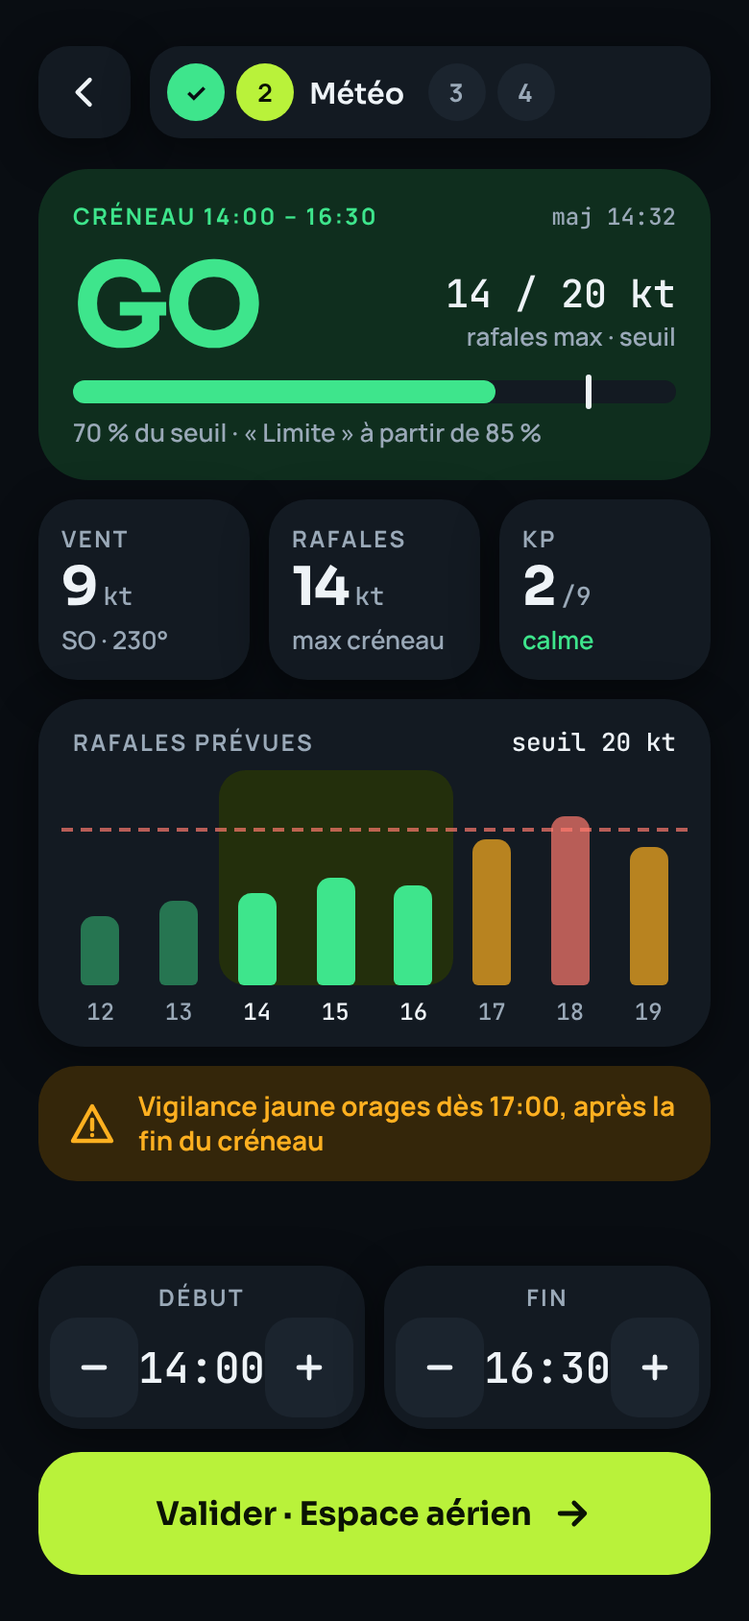
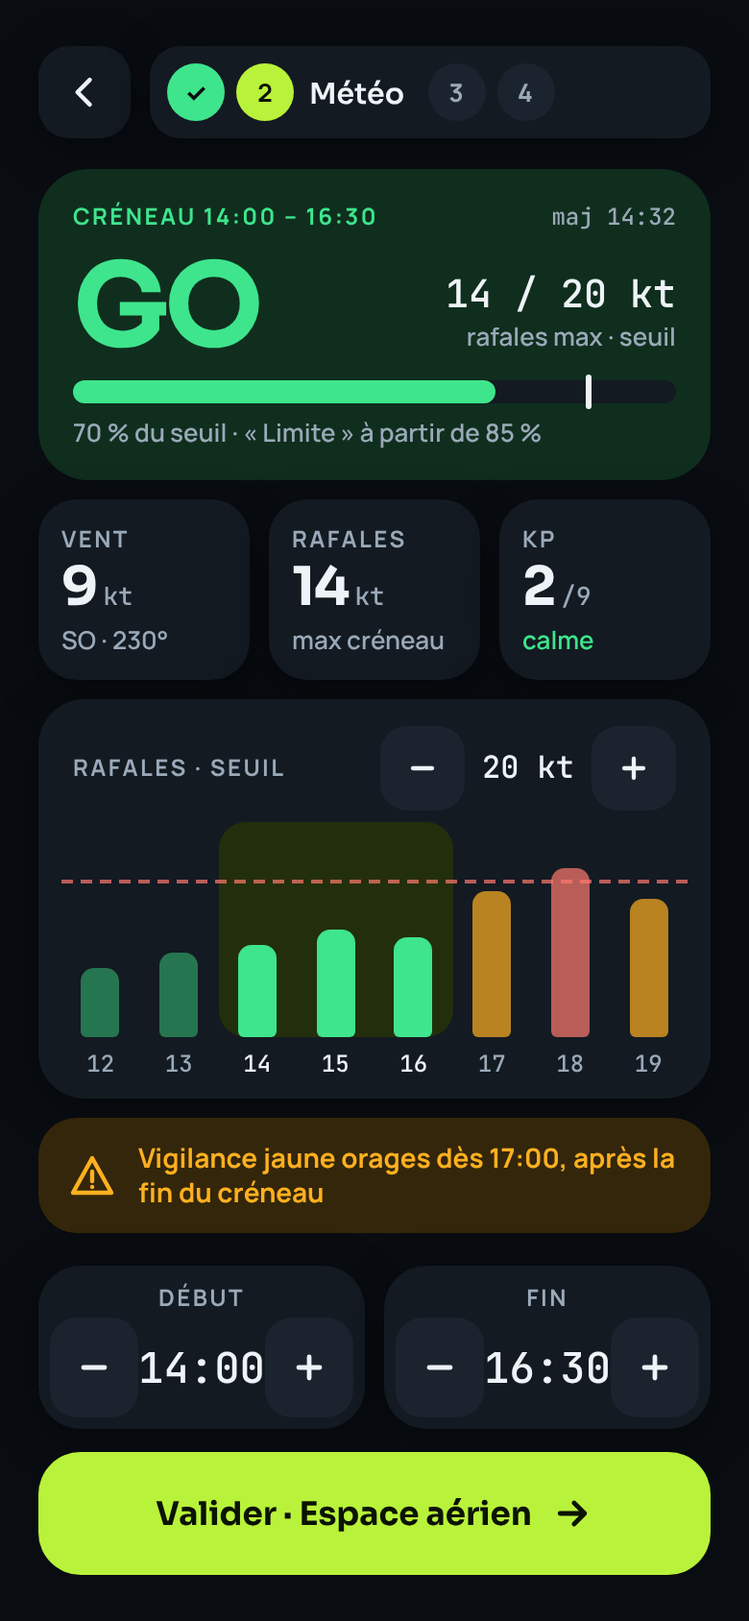
Direction B : seuil de rafales, NOTAM, SUP AIP, accueil vide
- Meteo : seuil de rafales réglable (− / +)
- Nouveaux écrans : Notam, SupAip (saisie manuelle avec source et heure), AccueilVide
- docs et captures mis à jour (12 écrans × clair/sombre)

Claude-Session: https://claude.ai/code/session_012whcUfQNcHfVK7pxXWHS1z

diff --git a/design/screens/SupAip.dc.html b/design/screens/SupAip.dc.html
@@ -1,0 +1,94 @@
+<!doctype html>
+<html lang="fr">
+<head>
+<meta charset="utf-8">
+<title>SUP AIP de la zone</title>
+<script src="./support.js"></script>
+</head>
+<body>
+<x-dc>
+<helmet>
+<link rel="stylesheet" href="https://fonts.googleapis.com/css2?family=Sora:wght@600;700&family=Manrope:wght@500;600;700&family=JetBrains+Mono:wght@500&display=swap">
+<style>
+body{margin:0}
+.pb *{box-sizing:border-box}
+.pb button{font-family:inherit;cursor:pointer}
+.pb .ibtn{width:48px;height:48px;border-radius:16px;border:0;background:var(--surf);color:var(--ink);display:flex;align-items:center;justify-content:center;box-shadow:var(--shadow)}
+.pb .step{width:30px;height:30px;border-radius:99px;display:flex;align-items:center;justify-content:center;font-size:13px;font-weight:700;background:var(--surf2);color:var(--mute)}
+.pb .lbl{font-size:12px;font-weight:700;letter-spacing:.1em;text-transform:uppercase;color:var(--mute)}
+.pb .card{background:var(--surf);border-radius:24px;box-shadow:var(--shadow);padding:14px 16px}
+.pb .fld{display:flex;flex-direction:column;gap:4px;flex:1;min-width:0}
+.pb .inp{height:52px;width:100%;border:2px solid var(--field-line);border-radius:16px;background:var(--surf2);color:var(--ink);font-family:inherit;font-size:15px;font-weight:600;padding:0 12px;outline:none}
+</style>
+</helmet>
+<div class="pb" style="position:relative;width:390px;height:844px;overflow:hidden;background:var(--bg);color:var(--ink);font-family:'Manrope',system-ui,sans-serif;font-size:15px;{{vars}}">
+
+<div style="position:absolute;left:20px;right:20px;top:24px;display:flex;gap:10px;align-items:center">
+<button class="ibtn" aria-label="Retour à la météo"><svg width="22" height="22" viewBox="0 0 24 24" fill="none" stroke="currentColor" stroke-width="2.4" stroke-linecap="round" stroke-linejoin="round"><path d="M15 5l-7 7 7 7"/></svg></button>
+<div style="flex:1;height:48px;border-radius:16px;background:var(--surf);box-shadow:var(--shadow);display:flex;align-items:center;gap:6px;padding:0 9px">
+<span class="step" style="background:var(--go);color:var(--bg)">✓</span>
+<span class="step" style="background:var(--go);color:var(--bg)">✓</span>
+<span class="step" style="background:var(--acc);color:var(--accInk)">3</span>
+<span style="font-family:'Sora',sans-serif;font-weight:600;font-size:15px;margin:0 6px 0 2px">SUP AIP</span>
+<span class="step">4</span>
+</div>
+</div>
+
+<div style="position:absolute;left:20px;right:20px;top:88px;display:flex;flex-direction:column;gap:10px">
+
+<div style="border:2px dashed var(--field-line);border-radius:24px;padding:14px 16px;display:flex;align-items:center;gap:12px">
+<svg width="26" height="26" viewBox="0 0 24 24" fill="none" stroke="var(--warn)" stroke-width="2.2" stroke-linecap="round" stroke-linejoin="round" style="flex:none"><path d="M12 3l10 18H2z"/><path d="M12 10v5M12 18h.01"/></svg>
+<div style="flex:1"><div style="font-family:'Sora',sans-serif;font-weight:700;font-size:18px;letter-spacing:-.01em">SUP AIP à saisir</div>
+<div style="font-size:13px;font-weight:600;color:var(--mute);margin-top:2px">Pas de source automatique. Consultez le site du SIA, puis reportez ceux qui touchent la zone.</div></div>
+<button aria-label="Ouvrir le site du SIA" style="width:48px;height:48px;flex:none;border-radius:14px;border:2px solid var(--acc);background:transparent;color:var(--acc);display:flex;align-items:center;justify-content:center"><svg width="20" height="20" viewBox="0 0 24 24" fill="none" stroke="currentColor" stroke-width="2.6" stroke-linecap="round" stroke-linejoin="round"><path d="M7 17L17 7M9 7h8v8"/></svg></button>
+</div>
+
+<div class="card" style="display:flex;flex-direction:column;gap:10px">
+<div class="lbl">Ajouter un SUP AIP</div>
+<div style="display:flex;gap:10px">
+<div class="fld"><label for="sid" style="font-size:13px;font-weight:700;color:var(--mute)">Identifiant</label><input id="sid" class="inp" placeholder="000/26" style="font-family:'JetBrains Mono',monospace"></div>
+<div class="fld"><label for="sval" style="font-size:13px;font-weight:700;color:var(--mute)">Validité</label><input id="sval" class="inp" placeholder="12/10 → 30/10" style="font-family:'JetBrains Mono',monospace"></div>
+</div>
+<div class="fld"><label for="stit" style="font-size:13px;font-weight:700;color:var(--mute)">Titre</label><input id="stit" class="inp" placeholder="Intitulé du SUP AIP"></div>
+<button style="height:52px;border-radius:16px;border:0;background:var(--ink);color:var(--surf);font-weight:700;font-size:15px">Ajouter</button>
+</div>
+
+<div class="card" style="display:flex;flex-direction:column;gap:8px">
+<div style="display:flex;justify-content:space-between;align-items:center;gap:8px">
+<span style="font-family:'JetBrains Mono',monospace;font-weight:500;font-size:16px">SUP AIP 000/26</span>
+<span style="display:inline-flex;align-items:center;height:28px;padding:0 12px;border-radius:99px;background:var(--warnSoft);color:var(--warn);font-size:12px;font-weight:700">Saisi à la main · 14:42</span>
+</div>
+<div style="font-weight:700">Titre saisi (exemple)</div>
+<div style="display:flex;justify-content:space-between;align-items:center">
+<span style="font-family:'JetBrains Mono',monospace;font-size:13px;color:var(--mute)">12/10 → 30/10</span>
+<button style="height:44px;padding:0 14px;border-radius:14px;border:0;background:var(--accSoft);color:var(--acc);font-weight:700;font-size:14px">Ouvrir le document</button>
+</div>
+</div>
+
+</div>
+
+<div style="position:absolute;left:0;right:0;bottom:0;height:150px;background:var(--bg)"></div>
+<div style="position:absolute;left:20px;right:20px;bottom:24px;display:flex;flex-direction:column;gap:12px">
+<div style="display:flex;background:var(--surf);border-radius:20px;padding:4px;gap:4px;box-shadow:var(--shadow)">
+<button style="flex:1;height:48px;border:0;border-radius:16px;background:transparent;color:var(--mute);font-weight:700;font-size:14px">Zones</button>
+<button style="flex:1;height:48px;border:0;border-radius:16px;background:transparent;color:var(--mute);font-weight:700;font-size:14px">NOTAM</button>
+<button style="flex:1;height:48px;border:0;border-radius:16px;background:var(--ink);color:var(--surf);font-weight:700;font-size:14px">SUP AIP</button>
+</div>
+<button style="height:64px;border-radius:22px;border:0;background:var(--acc);color:var(--accInk);font-family:'Sora',sans-serif;font-weight:700;font-size:17px;display:flex;align-items:center;justify-content:center;gap:10px">Valider · Fiche mission<svg width="22" height="22" viewBox="0 0 24 24" fill="none" stroke="currentColor" stroke-width="2.6" stroke-linecap="round" stroke-linejoin="round"><path d="M5 12h14M13 6l6 6-6 6"/></svg></button>
+</div>
+
+</div>
+</x-dc>
+<script type="text/x-dc" data-dc-script data-props='{"theme":{"editor":"enum","options":["light","dark"],"default":"light"},"$preview":{"width":390,"height":844}}'>
+class Component extends DCLogic {
+  renderVals() {
+    const dark = this.props.theme === 'dark';
+    const base = dark
+      ? '--bg:#090D12;--surf:#131A22;--surf2:#1B242E;--line:#2A3541;--field-line:#6B7C8E;--ink:#EEF3F7;--mute:#9AA9B8;--acc:#B9F23A;--accInk:#0B1304;--accSoft:#232F0C;--go:#3EE58C;--goSoft:#0F2E1E;--warn:#FFB020;--warnSoft:#34260A;--bad:#FF7A6E;--badSoft:#3A1814;--shadow:0 6px 24px rgba(0,0,0,.45);'
+      : '--bg:#EEF0EA;--surf:#FFFFFF;--surf2:#F2F4EE;--line:#DDE1D6;--field-line:#7B8576;--ink:#0D1218;--mute:#566170;--acc:#2340E8;--accInk:#FFFFFF;--accSoft:#E3E8FF;--go:#0D7A40;--goSoft:#D8F1E1;--warn:#8A5200;--warnSoft:#FBE9C6;--bad:#B3261E;--badSoft:#F9DAD6;--shadow:0 6px 24px rgba(13,18,24,.10);';
+    return { vars: base };
+  }
+}
+</script>
+</body>
+</html>

diff --git a/design/screens/Notam.dc.html b/design/screens/Notam.dc.html
@@ -1,0 +1,89 @@
+<!doctype html>
+<html lang="fr">
+<head>
+<meta charset="utf-8">
+<title>NOTAM de la zone</title>
+<script src="./support.js"></script>
+</head>
+<body>
+<x-dc>
+<helmet>
+<link rel="stylesheet" href="https://fonts.googleapis.com/css2?family=Sora:wght@600;700&family=Manrope:wght@500;600;700&family=JetBrains+Mono:wght@500&display=swap">
+<style>
+body{margin:0}
+.pb *{box-sizing:border-box}
+.pb button{font-family:inherit;cursor:pointer}
+.pb .ibtn{width:48px;height:48px;border-radius:16px;border:0;background:var(--surf);color:var(--ink);display:flex;align-items:center;justify-content:center;box-shadow:var(--shadow)}
+.pb .step{width:30px;height:30px;border-radius:99px;display:flex;align-items:center;justify-content:center;font-size:13px;font-weight:700;background:var(--surf2);color:var(--mute)}
+.pb .lbl{font-size:12px;font-weight:700;letter-spacing:.1em;text-transform:uppercase;color:var(--mute)}
+.pb .card{background:var(--surf);border-radius:24px;box-shadow:var(--shadow);padding:14px 16px}
+.pb .num{width:28px;height:28px;border-radius:99px;background:var(--accSoft);color:var(--acc);font-weight:700;font-size:13px;display:flex;align-items:center;justify-content:center;flex:none}
+</style>
+</helmet>
+<div class="pb" style="position:relative;width:390px;height:844px;overflow:hidden;background:var(--bg);color:var(--ink);font-family:'Manrope',system-ui,sans-serif;font-size:15px;{{vars}}">
+
+<div style="position:absolute;left:20px;right:20px;top:24px;display:flex;gap:10px;align-items:center">
+<button class="ibtn" aria-label="Retour à la météo"><svg width="22" height="22" viewBox="0 0 24 24" fill="none" stroke="currentColor" stroke-width="2.4" stroke-linecap="round" stroke-linejoin="round"><path d="M15 5l-7 7 7 7"/></svg></button>
+<div style="flex:1;height:48px;border-radius:16px;background:var(--surf);box-shadow:var(--shadow);display:flex;align-items:center;gap:6px;padding:0 9px">
+<span class="step" style="background:var(--go);color:var(--bg)">✓</span>
+<span class="step" style="background:var(--go);color:var(--bg)">✓</span>
+<span class="step" style="background:var(--acc);color:var(--accInk)">3</span>
+<span style="font-family:'Sora',sans-serif;font-weight:600;font-size:15px;margin:0 6px 0 2px">NOTAM</span>
+<span class="step">4</span>
+</div>
+</div>
+
+<div style="position:absolute;left:20px;right:20px;top:88px;display:flex;flex-direction:column;gap:10px">
+
+<div style="border:2px dashed var(--field-line);border-radius:24px;padding:14px 16px;display:flex;flex-direction:column;gap:12px">
+<div style="display:flex;align-items:center;gap:12px">
+<svg width="26" height="26" viewBox="0 0 24 24" fill="none" stroke="var(--warn)" stroke-width="2.2" stroke-linecap="round" stroke-linejoin="round" style="flex:none"><path d="M12 3l10 18H2z"/><path d="M12 10v5M12 18h.01"/></svg>
+<div><div style="font-family:'Sora',sans-serif;font-weight:700;font-size:18px;letter-spacing:-.01em">NOTAM non vérifiés</div>
+<div style="font-size:13px;font-weight:600;color:var(--mute);margin-top:2px">Aucune source automatique : l'absence de texte ne veut pas dire « rien à signaler ».</div></div>
+</div>
+<div style="display:flex;align-items:center;gap:12px"><span class="num">1</span><span style="flex:1;font-weight:700;font-size:14px">Ouvrir le service NOTAM du SIA</span>
+<button style="height:48px;padding:0 16px;border-radius:14px;border:2px solid var(--acc);background:transparent;color:var(--acc);font-weight:700;font-size:14px;display:flex;align-items:center;gap:6px">Ouvrir<svg width="16" height="16" viewBox="0 0 24 24" fill="none" stroke="currentColor" stroke-width="2.6" stroke-linecap="round" stroke-linejoin="round"><path d="M7 17L17 7M9 7h8v8"/></svg></button></div>
+<div style="display:flex;align-items:center;gap:12px"><span class="num">2</span><span style="flex:1;font-weight:700;font-size:14px">Copier le texte de la zone, puis le coller ci-dessous</span></div>
+</div>
+
+<div class="card" style="display:flex;flex-direction:column;gap:10px">
+<label for="coll" class="lbl">Texte collé</label>
+<textarea id="coll" placeholder="Coller le texte des NOTAM…" style="width:100%;height:96px;resize:none;border:2px solid var(--field-line);border-radius:16px;background:var(--surf2);color:var(--ink);font-family:'JetBrains Mono',monospace;font-size:14px;padding:12px;outline:none"></textarea>
+<button style="height:52px;border-radius:16px;border:0;background:var(--ink);color:var(--surf);font-weight:700;font-size:15px">Enregistrer le texte</button>
+</div>
+
+<div class="card" style="display:flex;flex-direction:column;gap:8px">
+<div style="display:flex;justify-content:space-between;align-items:center;gap:8px">
+<span style="font-family:'JetBrains Mono',monospace;font-weight:500;font-size:16px">A0000/26</span>
+<span style="display:inline-flex;align-items:center;height:28px;padding:0 12px;border-radius:99px;background:var(--warnSoft);color:var(--warn);font-size:12px;font-weight:700">Saisi à la main · 14:40</span>
+</div>
+<div style="font-family:'JetBrains Mono',monospace;font-size:13px;line-height:1.5;color:var(--ink)">Texte d'exemple collé par l'utilisateur. Validité 06/10 08:00 → 06/10 18:00.</div>
+</div>
+
+</div>
+
+<div style="position:absolute;left:0;right:0;bottom:0;height:150px;background:var(--bg)"></div>
+<div style="position:absolute;left:20px;right:20px;bottom:24px;display:flex;flex-direction:column;gap:12px">
+<div style="display:flex;background:var(--surf);border-radius:20px;padding:4px;gap:4px;box-shadow:var(--shadow)">
+<button style="flex:1;height:48px;border:0;border-radius:16px;background:transparent;color:var(--mute);font-weight:700;font-size:14px">Zones</button>
+<button style="flex:1;height:48px;border:0;border-radius:16px;background:var(--ink);color:var(--surf);font-weight:700;font-size:14px">NOTAM</button>
+<button style="flex:1;height:48px;border:0;border-radius:16px;background:transparent;color:var(--mute);font-weight:700;font-size:14px">SUP AIP</button>
+</div>
+<button style="height:64px;border-radius:22px;border:0;background:var(--acc);color:var(--accInk);font-family:'Sora',sans-serif;font-weight:700;font-size:17px;display:flex;align-items:center;justify-content:center;gap:10px">Valider · Fiche mission<svg width="22" height="22" viewBox="0 0 24 24" fill="none" stroke="currentColor" stroke-width="2.6" stroke-linecap="round" stroke-linejoin="round"><path d="M5 12h14M13 6l6 6-6 6"/></svg></button>
+</div>
+
+</div>
+</x-dc>
+<script type="text/x-dc" data-dc-script data-props='{"theme":{"editor":"enum","options":["light","dark"],"default":"light"},"$preview":{"width":390,"height":844}}'>
+class Component extends DCLogic {
+  renderVals() {
+    const dark = this.props.theme === 'dark';
+    const base = dark
+      ? '--bg:#090D12;--surf:#131A22;--surf2:#1B242E;--line:#2A3541;--field-line:#6B7C8E;--ink:#EEF3F7;--mute:#9AA9B8;--acc:#B9F23A;--accInk:#0B1304;--accSoft:#232F0C;--go:#3EE58C;--goSoft:#0F2E1E;--warn:#FFB020;--warnSoft:#34260A;--bad:#FF7A6E;--badSoft:#3A1814;--shadow:0 6px 24px rgba(0,0,0,.45);'
+      : '--bg:#EEF0EA;--surf:#FFFFFF;--surf2:#F2F4EE;--line:#DDE1D6;--field-line:#7B8576;--ink:#0D1218;--mute:#566170;--acc:#2340E8;--accInk:#FFFFFF;--accSoft:#E3E8FF;--go:#0D7A40;--goSoft:#D8F1E1;--warn:#8A5200;--warnSoft:#FBE9C6;--bad:#B3261E;--badSoft:#F9DAD6;--shadow:0 6px 24px rgba(13,18,24,.10);';
+    return { vars: base };
+  }
+}
+</script>
+</body>
+</html>

diff --git a/design/screens/AccueilVide.dc.html b/design/screens/AccueilVide.dc.html
@@ -1,0 +1,72 @@
+<!doctype html>
+<html lang="fr">
+<head>
+<meta charset="utf-8">
+<title>Accueil sans mission</title>
+<script src="./support.js"></script>
+</head>
+<body>
+<x-dc>
+<helmet>
+<link rel="stylesheet" href="https://fonts.googleapis.com/css2?family=Sora:wght@600;700&family=Manrope:wght@500;600;700&family=JetBrains+Mono:wght@500&display=swap">
+<style>
+body{margin:0}
+.pb *{box-sizing:border-box}
+.pb button{font-family:inherit;cursor:pointer}
+.pb .ibtn{width:48px;height:48px;border-radius:16px;border:0;background:var(--surf);color:var(--ink);display:flex;align-items:center;justify-content:center;box-shadow:var(--shadow)}
+</style>
+</helmet>
+<div class="pb" style="position:relative;width:390px;height:844px;overflow:hidden;background:var(--bg);color:var(--ink);font-family:'Manrope',system-ui,sans-serif;font-size:15px;{{vars}}">
+
+<div style="position:absolute;left:20px;right:20px;top:24px;display:flex;align-items:center;justify-content:space-between">
+<div style="display:flex;align-items:center;gap:10px">
+<div style="width:40px;height:40px;border-radius:14px;background:var(--acc);color:var(--accInk);display:flex;align-items:center;justify-content:center">
+<svg width="22" height="22" viewBox="0 0 24 24" fill="none" stroke="currentColor" stroke-width="2.2" stroke-linecap="round" stroke-linejoin="round"><path d="M12 3v4M12 17v4M3 12h4M17 12h4"/><circle cx="12" cy="12" r="3"/></svg>
+</div>
+<span style="font-family:'Sora',sans-serif;font-weight:700;font-size:17px;letter-spacing:-.01em">Prépa Mission</span>
+</div>
+<div style="display:flex;gap:10px">
+<button class="ibtn" aria-label="Changer de thème"><svg width="22" height="22" viewBox="0 0 24 24" fill="none" stroke="currentColor" stroke-width="2" stroke-linecap="round" stroke-linejoin="round"><path d="M21 12.8A9 9 0 1 1 11.2 3a7 7 0 0 0 9.8 9.8z"/></svg></button>
+<button class="ibtn" aria-label="Plus d'options"><svg width="22" height="22" viewBox="0 0 24 24" fill="currentColor"><circle cx="5" cy="12" r="1.8"/><circle cx="12" cy="12" r="1.8"/><circle cx="19" cy="12" r="1.8"/></svg></button>
+</div>
+</div>
+
+<div style="position:absolute;left:20px;right:20px;top:92px">
+<h1 style="margin:0;font-family:'Sora',sans-serif;font-weight:700;font-size:38px;letter-spacing:-.03em;line-height:1.05">Missions</h1>
+<div style="margin-top:6px;color:var(--mute);font-weight:600">Aucune mission sur cet appareil</div>
+</div>
+
+<div style="position:absolute;left:20px;right:20px;top:230px;display:flex;flex-direction:column;align-items:center;text-align:center;gap:14px">
+<svg width="200" height="150" viewBox="0 0 200 150" aria-hidden="true">
+<g fill="none" stroke="var(--field-line)" stroke-width="2" stroke-linecap="round" stroke-linejoin="round">
+<circle cx="100" cy="75" r="26" stroke-dasharray="5 6"/>
+<circle cx="100" cy="75" r="52" stroke-dasharray="5 8" opacity=".6"/>
+<circle cx="100" cy="75" r="72" opacity=".3"/>
+</g>
+<circle cx="100" cy="75" r="9" fill="var(--acc)"/>
+<circle cx="100" cy="75" r="16" fill="none" stroke="var(--acc)" stroke-width="2" opacity=".5"/>
+</svg>
+<div style="font-family:'Sora',sans-serif;font-weight:700;font-size:22px;letter-spacing:-.02em">Prêt pour une première mission</div>
+<div style="color:var(--mute);font-weight:600;line-height:1.5;max-width:300px">Les missions restent dans ce navigateur. Le cache peut être vidé : pensez à les exporter pour les sauvegarder.</div>
+</div>
+
+<div style="position:absolute;left:20px;right:20px;bottom:24px;display:flex;flex-direction:column;gap:12px">
+<button style="height:56px;border-radius:20px;border:2px solid var(--field-line);background:transparent;color:var(--ink);font-weight:700;font-size:15px;display:flex;align-items:center;justify-content:center;gap:10px"><svg width="22" height="22" viewBox="0 0 24 24" fill="none" stroke="currentColor" stroke-width="2.2" stroke-linecap="round" stroke-linejoin="round"><path d="M12 15V3M7 8l5-5 5 5M4 20h16"/></svg>Importer une sauvegarde</button>
+<button style="height:64px;border-radius:22px;border:0;background:var(--acc);color:var(--accInk);font-family:'Sora',sans-serif;font-weight:700;font-size:18px;display:flex;align-items:center;justify-content:center;gap:10px;box-shadow:var(--shadow)"><svg width="24" height="24" viewBox="0 0 24 24" fill="none" stroke="currentColor" stroke-width="2.6" stroke-linecap="round"><path d="M12 5v14M5 12h14"/></svg>Nouvelle mission</button>
+</div>
+
+</div>
+</x-dc>
+<script type="text/x-dc" data-dc-script data-props='{"theme":{"editor":"enum","options":["light","dark"],"default":"light"},"$preview":{"width":390,"height":844}}'>
+class Component extends DCLogic {
+  renderVals() {
+    const dark = this.props.theme === 'dark';
+    const base = dark
+      ? '--bg:#090D12;--surf:#131A22;--surf2:#1B242E;--line:#2A3541;--field-line:#6B7C8E;--ink:#EEF3F7;--mute:#9AA9B8;--acc:#B9F23A;--accInk:#0B1304;--shadow:0 6px 24px rgba(0,0,0,.45);'
+      : '--bg:#EEF0EA;--surf:#FFFFFF;--surf2:#F2F4EE;--line:#DDE1D6;--field-line:#7B8576;--ink:#0D1218;--mute:#566170;--acc:#2340E8;--accInk:#FFFFFF;--shadow:0 6px 24px rgba(13,18,24,.10);';
+    return { vars: base };
+  }
+}
+</script>
+</body>
+</html>

diff --git a/design/screens/Meteo.dc.html b/design/screens/Meteo.dc.html
@@ -68,8 +68,12 @@ body{margin:0}
 
 <div style="background:var(--surf);border-radius:24px;box-shadow:var(--shadow);padding:14px 12px 10px;display:flex;flex-direction:column;gap:6px">
 <div style="display:flex;justify-content:space-between;align-items:center;padding:0 6px">
-<span class="lbl">Rafales prévues</span>
-<span style="font-family:'JetBrains Mono',monospace;font-size:13px;font-weight:500">seuil 20 kt</span>
+<span class="lbl">Rafales · seuil</span>
+<div style="display:flex;align-items:center;gap:4px">
+<button class="stp" aria-label="Seuil de rafales moins 1 nœud" style="width:44px;height:44px"><svg width="20" height="20" viewBox="0 0 24 24" fill="none" stroke="currentColor" stroke-width="2.6" stroke-linecap="round"><path d="M6 12h12"/></svg></button>
+<span style="font-family:'JetBrains Mono',monospace;font-size:16px;font-weight:500;min-width:58px;text-align:center">20 kt</span>
+<button class="stp" aria-label="Seuil de rafales plus 1 nœud" style="width:44px;height:44px"><svg width="20" height="20" viewBox="0 0 24 24" fill="none" stroke="currentColor" stroke-width="2.6" stroke-linecap="round"><path d="M12 6v12M6 12h12"/></svg></button>
+</div>
 </div>
 <div style="position:relative;display:flex">
 <div style="position:absolute;left:0;right:0;bottom:{{thrBottom}}px;border-top:2px dashed var(--bad);opacity:.7;z-index:2"></div>

diff --git a/docs/03-ecrans-et-parcours.md b/docs/03-ecrans-et-parcours.md
@@ -1,6 +1,6 @@
 # Écrans et parcours — direction B « une main »
 
-Références visuelles : `design/previews/` (9 écrans × clair/sombre) et `design/screens/` (sources). Les maquettes utilisent des **données d'exemple** : ne pas les recopier comme vraies données.
+Références visuelles : `design/previews/` (12 écrans × clair/sombre) et `design/screens/` (sources). Les maquettes utilisent des **données d'exemple** : ne pas les recopier comme vraies données.
 
 ## Parcours principal
 
@@ -27,7 +27,7 @@ Moitié haute : identité (radar décoratif, logo, nom). Moitié basse : champ m
 
 ## 02 Accueil (`Accueil`)
 
-Titre « Missions », compteur, filtres (Toutes · À préparer · Prêtes). Cartes de mission : nom, date · créneau · lieu, pastille de verdict (GO / LIMITE / À PRÉPARER), 4 segments de progression (Lieu, Météo, Espace, Fiche), pastilles GENDRONE et Visu@ldrone. En bas : « Nouvelle mission » (principal) et import/export. Actions de carte à prévoir : renommer, dupliquer, supprimer (appui long ou menu). État vide à dessiner.
+Titre « Missions », compteur, filtres (Toutes · À préparer · Prêtes). Cartes de mission : nom, date · créneau · lieu, pastille de verdict (GO / LIMITE / À PRÉPARER), 4 segments de progression (Lieu, Météo, Espace, Fiche), pastilles GENDRONE et Visu@ldrone. En bas : « Nouvelle mission » (principal) et import/export. Actions de carte à prévoir : renommer, dupliquer, supprimer (appui long ou menu). État vide : écran `AccueilVide` (invitation « Prêt pour une première mission », rappel que le cache peut être vidé, « Importer une sauvegarde » et « Nouvelle mission »).
 
 ## 03 Lieu (`Lieu`)
 
@@ -42,7 +42,7 @@ Titre « Missions », compteur, filtres (Toutes · À préparer · Prêtes). Car
 - Graphique des rafales heure par heure : créneau surligné, seuil en tirets, barres colorées par statut.
 - Alerte (vigilance) : fond d'avertissement, avec précision « dans / hors créneau ».
 - Bas : réglage Début et Fin par pas de 30 minutes, puis « Valider · Espace aérien ».
-- Seuil de rafales réglable (non dessiné : à placer dans la carte du graphique).
+- **Seuil de rafales réglable** dans l'en-tête du graphique (− / + par pas de 1 nœud) ; le verdict et les couleurs des barres se recalculent.
 
 ## 05 Météo indisponible (`MeteoHS`)
 
@@ -54,7 +54,14 @@ Carte rouge « Météo indisponible, aucune valeur n'est inventée » + « Rées
 - Mini-carte des zones (CTR en ambre pointillé, zone restreinte en rouge).
 - Carte de lignes : CTR (oui/non), hauteur maximale, aérodrome le plus proche (distance) ; pied « Source … données récupérées à hh:mm ».
 - Carte à bord pointillé « NOTAM · SUP AIP : non vérifiés » tant qu'aucune source n'est branchée : **jamais « rien à signaler » sans source**.
-- Segments Zones · NOTAM · SUP AIP au-dessus du bouton principal. Écrans NOTAM et SUP AIP à dessiner (liste, collage du texte, lien vers le SIA).
+- Segments Zones · NOTAM · SUP AIP au-dessus du bouton principal. Les onglets NOTAM et SUP AIP ouvrent les écrans `Notam` et `SupAip`, ci-dessous.
+
+### 06 bis NOTAM (`Notam`) et SUP AIP (`SupAip`)
+
+- Carte à bord pointillé « non vérifiés » tant qu'aucune source n'est branchée ; rappel que l'absence de texte ne signifie pas « rien à signaler ».
+- **NOTAM** : étape 1 « Ouvrir le service NOTAM du SIA » (lien externe), étape 2 « copier le texte de la zone et le coller » ; zone de texte monospace, bouton « Enregistrer le texte » ; chaque texte enregistré affiche son identifiant, la pastille « Saisi à la main · hh:mm » et la validité.
+- **SUP AIP** : lien vers le site du SIA ; formulaire Identifiant · Validité · Titre, bouton « Ajouter » ; chaque entrée affiche identifiant, titre, validité, pastille « Saisi à la main · hh:mm » et « Ouvrir le document ».
+- Toujours indiquer la source (ici « saisie manuelle ») et l'heure d'enregistrement.
 
 ## 07 Fiche mission (`Fiche`)
 

diff --git a/design/README.md b/design/README.md
@@ -5,12 +5,12 @@ Conception mobile d'abord : navigation et actions dans la zone du pouce (bas de 
 | Dossier | Contenu |
 |---|---|
 | `tokens.css` | Variables CSS clair/sombre. **À utiliser directement.** |
-| `previews/` | 18 captures PNG (9 écrans × clair/sombre, 390 × 844, ×2). **Référence visuelle rapide.** |
-| `screens/` | Sources des 9 écrans (`.dc.html`), chacun avec une propriété `theme` (`light` ou `dark`). |
+| `previews/` | 24 captures PNG (12 écrans × clair/sombre, 390 × 844, ×2). **Référence visuelle rapide.** |
+| `screens/` | Sources des 12 écrans (`.dc.html`), chacun avec une propriété `theme` (`light` ou `dark`). |
 
-## Les 9 écrans
+## Les 12 écrans
 
-`Connexion` · `Accueil` · `Lieu` · `Meteo` · `MeteoHS` (météo indisponible, saisie manuelle) · `Espace` (espace aérien, NOTAM, SUP AIP) · `Fiche` · `Smepp` (dictée) · `Outils` (tiroir de conversion).
+`Connexion` · `Accueil` · `AccueilVide` · `Lieu` · `Meteo` (avec seuil de rafales réglable) · `MeteoHS` (météo indisponible, saisie manuelle) · `Espace` (zones) · `Notam` (collage manuel) · `SupAip` (saisie manuelle) · `Fiche` · `Smepp` (dictée) · `Outils` (tiroir de conversion).
 
 ## Format `.dc.html`
 
@@ -26,4 +26,4 @@ Les captures et sources font foi pour l'apparence ; `docs/03-ecrans-et-parcours.
 
 ## Ce qui n'est pas encore dessiné
 
-NOTAM et SUP AIP en détail (liste, collage du texte), accueil vide, import/export, état hors ligne, tablette et poste de travail (la mise en page B est pensée pour téléphone ; sur grand écran, centrer la colonne mobile ou prévoir une version à deux colonnes).
+Onglet Coordonnées des Outils, menu d'actions d'une mission (renommer, dupliquer, supprimer), import/export en détail, état hors ligne, tablette et poste de travail (la mise en page B est pensée pour téléphone ; sur grand écran, centrer la colonne mobile ou prévoir une version à deux colonnes).

diff --git a/README.md b/README.md
@@ -2,7 +2,7 @@
 
 Application web **mobile d'abord, utilisable d'une main**, d'aide à la préparation d'une mission drone, pour un usage en unité de gendarmerie. Cette branche est **indépendante** de `main` (aucun historique commun) : elle porte la direction de design B et un dossier de transfert complet pour une IA de développement ou un développeur.
 
-> Statut : **maquettes B dessinées** (9 écrans, thèmes clair et sombre) ; code applicatif à écrire. Seuls des modules utilitaires testés sont fournis (`src/lib/`, 32 tests).
+> Statut : **maquettes B dessinées** (12 écrans, thèmes clair et sombre) ; code applicatif à écrire. Seuls des modules utilitaires testés sont fournis (`src/lib/`, 32 tests).
 
 ## Ordre de lecture
 
@@ -21,8 +21,8 @@ Application web **mobile d'abord, utilisable d'une main**, d'aide à la prépara
 |---|---|
 | `docs/` | Spécifications en français |
 | `design/tokens.css` | Variables CSS des thèmes clair et sombre (prêtes à utiliser) |
-| `design/previews/` | 18 captures PNG : 9 écrans × clair/sombre |
-| `design/screens/` | Sources des 9 écrans (format `.dc.html`, voir `design/README.md`) |
+| `design/previews/` | 24 captures PNG : 12 écrans × clair/sombre |
+| `design/screens/` | Sources des 12 écrans (format `.dc.html`, voir `design/README.md`) |
 | `src/lib/` | Modules JS purs et testés : coordonnées, unités, verdict météo, stockage des missions, verrou par mot de passe |
 | `test/` | Tests (`node --test`) |
 | `index.html`, `src/main.js` | Coquille de démarrage : verrou + page d'accueil minimale |
